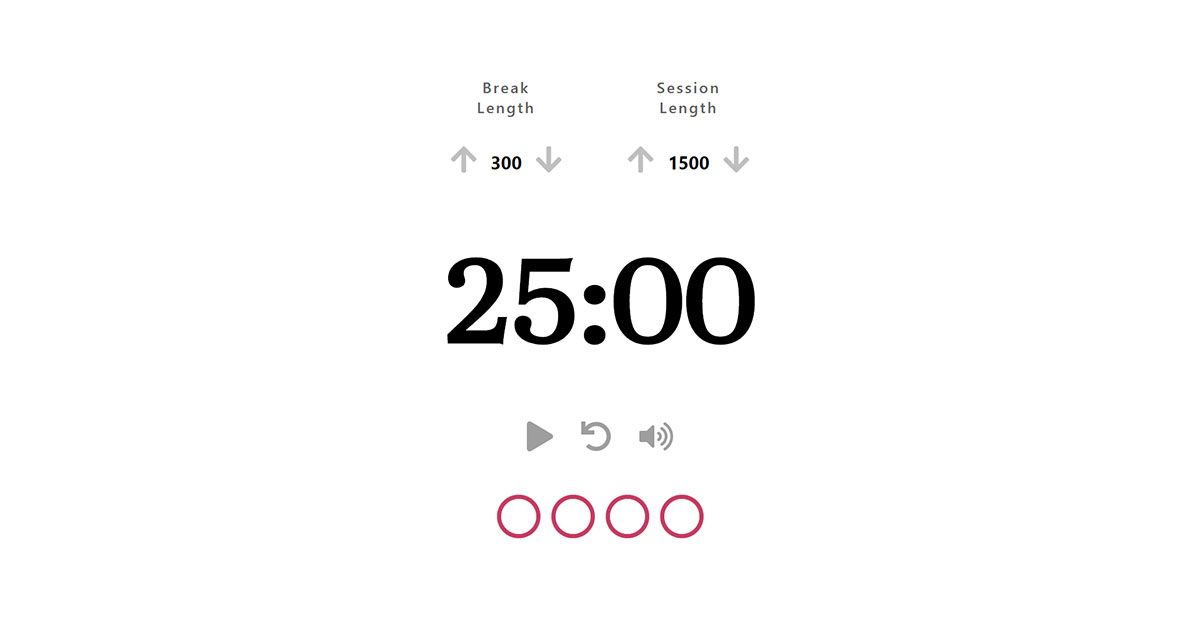
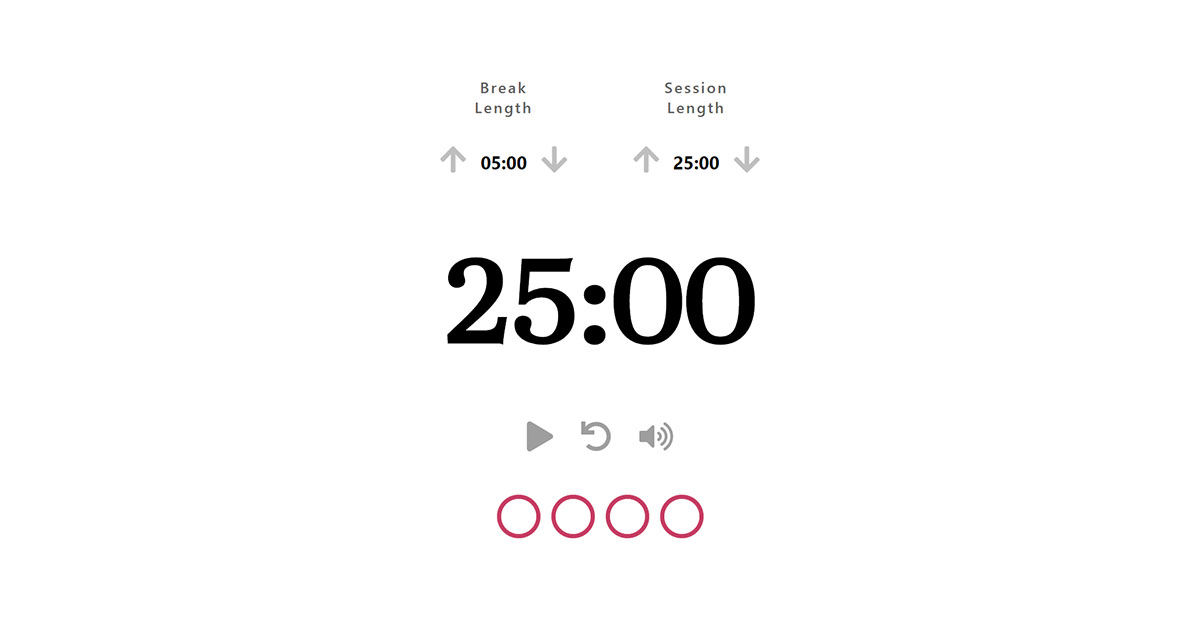
Format break/session duration as mm:ss, update preview image

diff --git a/src/DurationControls.js b/src/DurationControls.js
@@ -2,6 +2,7 @@ import { FontAwesomeIcon } from '@fortawesome/react-fontawesome';
 import { faArrowUp } from '@fortawesome/free-solid-svg-icons';
 import { faArrowDown } from '@fortawesome/free-solid-svg-icons';
 import React from 'react';
+const TimeFormat = require('hh-mm-ss');
 
 const DurationControls = props => (
   <div className="duration-controls">
@@ -20,7 +21,7 @@ const DurationControls = props => (
         />
 
         {/* TODO: divide by 60 again when testing complete */}
-        <p className="duration" >{props.breakDuration}</p>
+        <p className="duration" >{TimeFormat.fromS(props.breakDuration)}</p>
 
         <FontAwesomeIcon
           icon={faArrowDown} onClick={props.decreaseBreakDuration}
@@ -48,7 +49,7 @@ const DurationControls = props => (
         />
 
         {/* TODO: divide by 60 again when testing complete */}
-        <p className="duration" >{props.sessionDuration}</p>
+        <p className="duration" >{TimeFormat.fromS(props.sessionDuration)}</p>
 
         <FontAwesomeIcon
           icon={faArrowDown}
